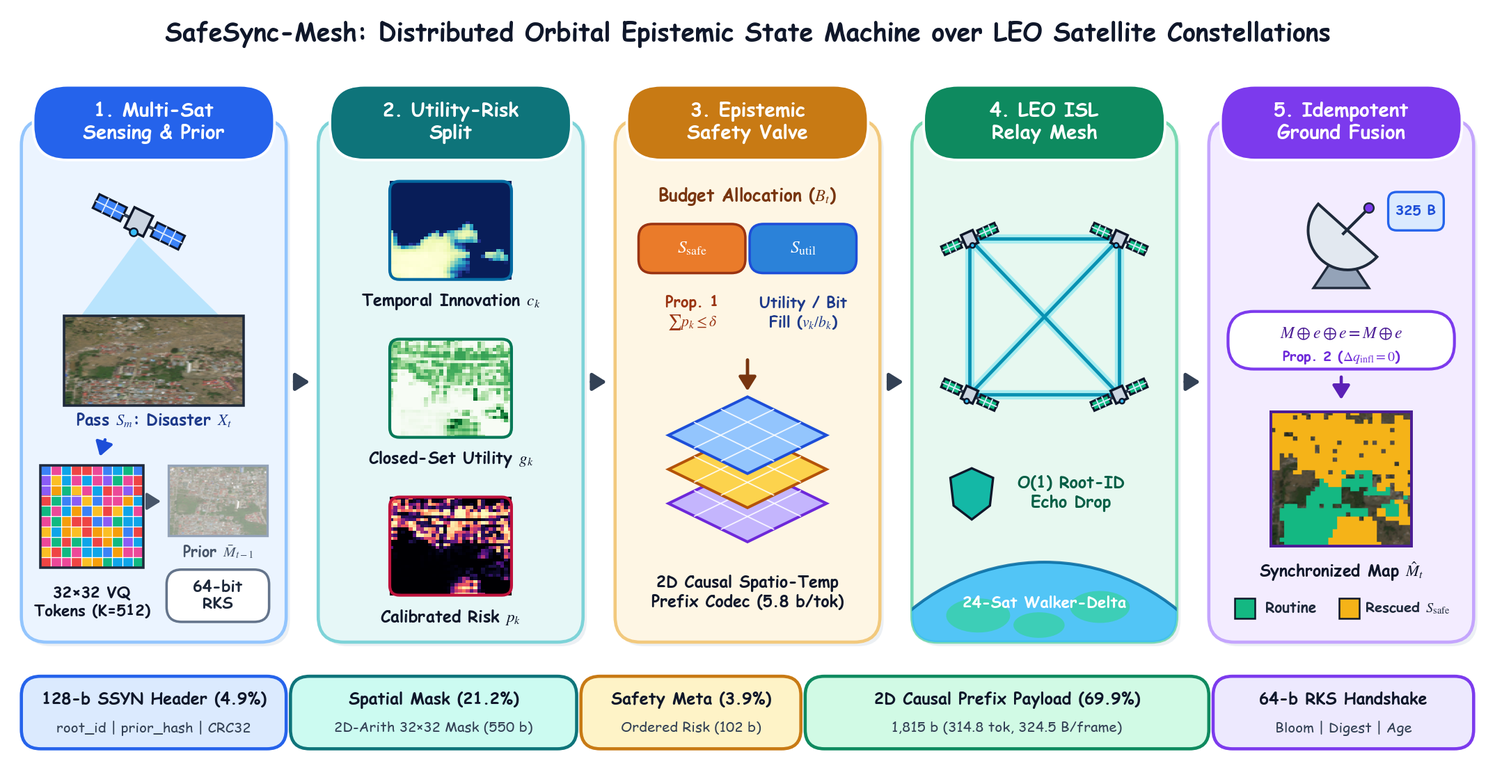
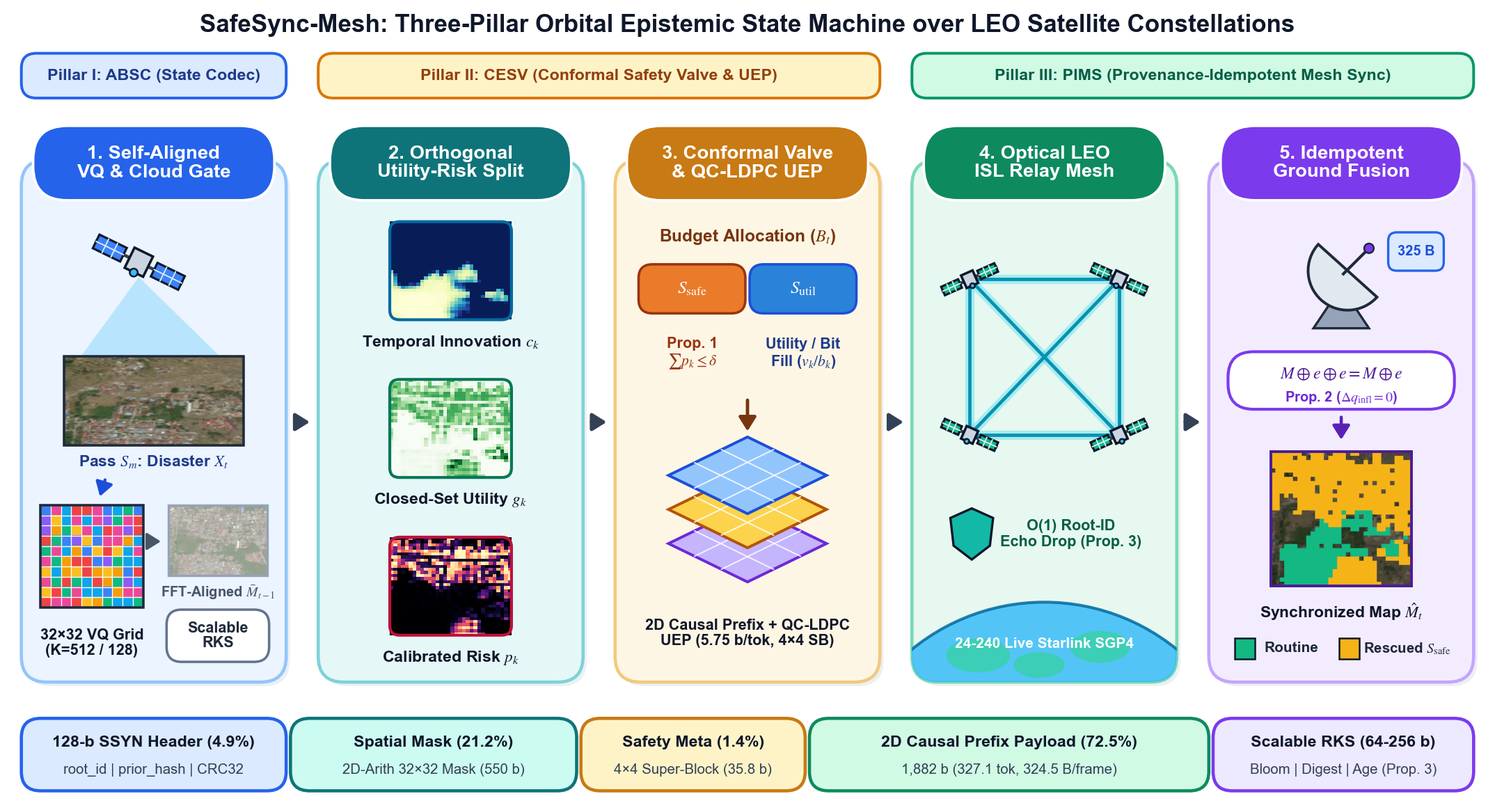
Update bilingual README with IEEE Trans framing & lessons learned, sync 9 Okabe-Ito Arial figures, and update requirements

diff --git a/README.md b/README.md
@@ -1,146 +1,150 @@
-# SafeSync-Mesh: Epistemic State Synchronization and Provenance-Idempotent Relay for Open-World LEO Satellite Constellations
+# SafeSync-Mesh: Risk-Bounded Semantic Synchronization and Idempotent ISL Relaying for Cooperative LEO Earth-Observation Constellations
 
 <p align="center">
   <a href="#english-overview"><b>English Overview</b></a> •
   <a href="#中文简介"><b>中文简介</b></a> •
   <a href="#experimental-summary--实验结果概览"><b>Results / 实验结果</b></a> •
   <a href="#quickstart--快速验证"><b>Quickstart / 快速验证</b></a> •
-  <a href="#reproducibility--复现说明"><b>Reproducibility / 复现说明</b></a>
+  <a href="#research-reflections--pitfalls--研究思考与踩坑复盘"><b>Lessons Learned / 踩坑复盘</b></a> •
+  <a href="#citation--引用格式"><b>Citation / 引用</b></a>
 </p>
 
 <p align="center">
-  <img src="assets/fig1_safesync_architecture.png" width="98%" alt="SafeSync-Mesh System Architecture"/>
+  <img src="assets/fig0_intuition_pareto_teaser.png" width="98%" alt="SafeSync-Mesh Problem Intuition and Rate-Accuracy-Safety Pareto Frontier"/>
+</p>
+
+<p align="center">
+  <img src="assets/fig1_safesync_architecture.png" width="98%" alt="SafeSync-Mesh Three-Pillar System Architecture"/>
 </p>
 
 ---
 
 ## English Overview
 
-This repository provides the reference implementation, bit-exact binary wire-packet codec (`SSYN`), discrete-event 24-satellite Walker-Delta LEO ISL constellation simulator, and complete evaluation suite accompanying our study **SafeSync-Mesh: Epistemic State Synchronization and Provenance-Idempotent Relay for Open-World LEO Satellite Constellations**.
+This repository provides the open-source reference implementation, bit-exact 325-byte wire codec (`SSYN`), girth-6 QC-LDPC + LEO Doppler physical-layer testbed, 24-to-240-satellite Walker-Delta and live NORAD/CelesTrak SpaceX Starlink WGS-84 SGP4 constellation simulators, and complete experimental logs accompanying our manuscript:
 
-### Motivation
+> **SafeSync-Mesh: Risk-Bounded Semantic Synchronization and Idempotent ISL Relaying for Cooperative LEO Earth-Observation Constellations**  
+> Yonghao Wu, School of Electronic Science and Engineering (School of Microelectronics), South China Normal University
 
-When agile Earth-observation (EO) satellites cooperate with Starlink-like low-Earth-orbit (LEO) inter-satellite link (ISL) relay constellations for rapid disaster response, downstream nodes already hold a georeferenced prior state from an earlier satellite pass. While stateful semantic synchronization avoids re-transmitting static background on isolated point-to-point links, scaling it to an intermittent multi-satellite relay mesh surfaces two structural failures:
+We share this codebase in the hope that it may serve as a transparent and reproducible starting point for researchers working on spaceborne semantic communication, open-world Earth observation, and multi-hop LEO inter-satellite link (ISL) networking. Errors, edge cases, and suggestions for improvement are sincerely welcomed via GitHub Issues or Pull Requests.
 
-1. **Closed-Set Prior Hallucination**: A closed-set utility scorer trained on routine wind and flood damage assigns low saliency to unfamiliar catastrophe morphologies (such as tsunami liquefaction or total structural collapse into rubble). Pruning those tokens forces the receiver to reuse stale intact prior states from an earlier pass.
-2. **Multi-Path Echo Inflation & Prior Version Drift**: Missed ISL contacts leave `24.0%` of downstream consumers with outdated prior versions, while multi-path ISL routing injects `65.1%` duplicate packets that empirically inflate posterior confidence (`Δq = 0.113`) when observation provenance is untracked.
+### Motivation & Three Coupled Bottlenecks
 
-### Method Summary
+Multi-pass optical Earth-observation (EO) constellations repeatedly image largely persistent terrain, so downstream regional consumers already hold a georeferenced prior state from an earlier pass. While single-link stateful semantic codecs suppress unchanged background on isolated links, extending differential synchronization across dynamic multi-hop LEO ISL meshes exposes three coupled bottlenecks:
 
-**SafeSync-Mesh** models cooperative multi-satellite dissemination as a distributed orbital epistemic state machine:
-- **Stage-2 Bottleneck Vector Quantization (`32×32`, `K=512`), 2D-Arith Mask & 2D Causal Spatio-Temporal Prefix Coding**: Replaces multi-skip floating-point feature dumps with compact discrete bottleneck indices (`26,440×` smaller than 5-skip FP16 on SpaceNet 7 under a single blind $\Delta t$-agnostic gate, reaching `51.15%` new-building recall), a wire-only 2D `3×3` depthwise-separable refinement head, a **16-context 2D causal binary arithmetic spatial mask** (`550.1 bits`, `-38.0%` vs. `zlib`), lossless 2-context adaptive arithmetic $S_{\mathrm{safe}}$ flags (`102.4 bits`), and 2D causal spatio-temporal conditional prefix coding (`5.77 bits/token`, packing `314.8` tokens per `325-byte` CRC32-protected frame).
-- **Orthogonal Utility–Risk Decomposition & Epistemic Safety Valve ($S_{\mathrm{safe}}$)**: Separates closed-set marginal utility $g_k$ from 2-fold out-of-sample isotonic-conformal calibrated open-world risk $p_k$, reserving budget for high-risk anomalies until omitted risk satisfies $\sum_{s_k=0} p_k \le \delta$ (**Proposition 1**).
-- **64-Bit Recipient Knowledge Sketch (RKS) & Idempotent State Algebra**: Exchanges a 64-bit control sketch (exact bit-level `32-bit` two-hash Bloom filter + `16-bit` prior digest + `16-bit` age vector) and persistent 32-bit `root_id` provenance tags so multi-path arrivals fuse idempotently ($M_j \oplus e \oplus \cdots \oplus e = M_j \oplus e$, $\Delta q_{\mathrm{infl}} = 0$, **Proposition 2**).
+1. **Multi-Skip Feature Expansion & Orbital Perturbations**: Transmitting 5-layer floating-point U-Net skip tensors costs tens of megabytes per scene (`33.02–65.24 MB`), whereas dropping skip connections without decoder adaptation collapses new-building emergence recall to `4.62%`. Uncompensated off-nadir orthorectification shifts and partial optical clouds further waste up to `62.2%` of tight semantic budgets.
+2. **Closed-Set Prior Hallucination**: When an unseen catastrophe (coastal tsunami liquefaction, wildfire incineration, or rubble collapse) destroys a previously intact building, closed-set utility scorers trained on routine wind and flood damage assign near-zero saliency to the unfamiliar debris. Pruning those cells forces the receiver to copy stale intact roofs from the prior pass (`37.56%–37.90%` unknown collapse miss rate).
+3. **Multi-Path Echo Storms & Prior Version Drift**: Intermittent ISL contacts leave `24.0%` of regional consumers with mismatched prior versions, while uncoordinated multi-path forwarding injects `65.1%–78.1%` duplicate ISL packets and inflates posterior confidence (`Δq = 0.113`) when observation provenance is untracked.
+
+### Three-Pillar Architecture (`ABSC` + `CESV` + `PIMS`)
+
+**SafeSync-Mesh** models cooperative multi-satellite EO dissemination as a provenance-certified orbital epistemic state machine:
+
+- **Pillar I — Self-Aligning Bottleneck State Codec (`ABSC`)**: Pairs a `32×32` discrete bottleneck vector-quantized grid (`K=512` default or compact `64 KB` SRAM `K=128` mode) with a wire-only 2D depthwise-separable refinement head, zero-oracle 2-byte onboard 2D FFT sub-cell pre-alignment (`-40.5%` rate under `16 px` true RGB shifts), onboard RGB whiteness–saturation cloud gating (`-44.9 pp` cloud waste), 16-context 2D causal binary arithmetic spatial masks (`550.1 bits`, `-38.0%` vs. `zlib`), and 2D spatio-temporal conditional prefix coding inside self-verifying `325-byte` CRC32 frames (`4,595×` smaller than raw PNGs and `26,440×` smaller than 5-skip FP16 tensors on SpaceNet 7).
+- **Pillar II — Conformal Epistemic Safety Valve (`CESV`)**: Orthogonally decouples closed-set marginal utility $g_k$ from 2-fold out-of-sample isotonic-conformal calibrated collapse risk $p_k$ driven by geometric prior contradiction ($q_{t-1,k}^{\mathrm{loc}} \cdot c_k$), enforcing a finite-sample unknown-omission bound (**Proposition 1**), compact `4×4` super-block safety metadata (`35.8 bits`, `-65.0%` overhead), and cross-layer girth-6 QC-LDPC unequal error protection (UEP).
+- **Pillar III — Provenance-Idempotent Mesh Sync (`PIMS`)**: Embeds linearly scalable Recipient Knowledge Sketches (`RKS`, `m=32–256 bit` two-hash sliding Bloom filter + `16-bit` prior digest + `16-bit` freshness) and persistent `32-bit` `root_id` tags into packet headers so regenerative ISL relays suppress echoes in $\mathcal{O}(1)$ (`0.18 ms/packet`, zero neural decoding) and consumers fuse multi-path deliveries strictly idempotently ($\Delta q_{\mathrm{infl}} = 0$, **Propositions 2 & 3**).
 
 ---
 
 ## 中文简介
 
-本仓库整理并开源了论文 **《SafeSync-Mesh: Epistemic State Synchronization and Provenance-Idempotent Relay for Open-World LEO Satellite Constellations》** 的完整代码、325 字节二进制线级编解码器（`SSYN`，支持 16 上下文二维因果算术空间掩码与 2D 时空条件前缀编码）、基于三维开普勒轨道与真实双哈希布隆过滤器的 24 星 Walker-Delta 离散事件 ISL 中继仿真器，以及全部多基准实验结果。
+本仓库开源了论文 **《SafeSync-Mesh: Risk-Bounded Semantic Synchronization and Idempotent ISL Relaying for Cooperative LEO Earth-Observation Constellations》** 的全部核心可复现代码、325 字节二进制线级编解码器（`SSYN`）、比特级 Girth-6 QC-LDPC + LEO 多普勒物理层仿真框架、24–240 星 Walker-Delta 与真实 NORAD/CelesTrak SpaceX Starlink WGS-84 SGP4 轨道中继仿真器以及全部实验结果日志。
 
-### 研究背景与核心设计
+研究过程中难免仍有局限与可打磨之处（详见文末“踩坑复盘与物理边界”），诚挚欢迎各位同行老师、同学和开源社区开发者批评指正、提交 Issue 或交流改进建议。
 
-围绕低轨多星协同应急观测中的三大瓶颈——**多跳跃连续特征膨胀**、**闭集先验幻觉（Closed-Set Prior Hallucination）** 与 **多径回声置信度虚高及先验版本漂移**，**SafeSync-Mesh** 将多星协同分发建模为分布式的**在轨认知状态机**：
-- **瓶颈层离散向量量化与 2D-Arith / 时空条件前缀编码**：用 `32×32` 瓶颈层离散码本（`K=512`）替代动辄数十 MB 的跳跃连接张量（SpaceNet 7 统一无先验时间跨度门控下压缩达 **`26,440×`**，新增建筑召回率达 **`51.15%`**），并采用 **16 上下文二维因果二元算术空间掩码**（较 `zlib` 节省 **`38.0%`** 掩码开销）、无损 2 上下文算术安全标记与二维因果时空条件前缀编码（`5.77 bits/token`），在严格 `325 字节/帧`（`2.60 kb/frame`，含 128-bit 帧头与 CRC32）内封装 `314.8` 枚离散令牌。
-- **效用—风险正交分解与认知安全阀（$S_{\mathrm{safe}}$）**：将常规闭集边际效用 $g_k$ 与严格样本外（2-Fold Out-of-Sample）保序回归—共形校准后的开放世界风险 $p_k$ 解耦，给出无后处理截断的 **Proposition 1** 漏检概率上界保障。
-- **64-bit 接收端知识草图（RKS）与溯源幂等状态代数**：借助 64-bit RKS（精确 32-bit 双哈希 Bloom 过滤器 + 16-bit 先验摘要 + 16-bit 鲜度向量）与持久化 `root_id`，在中间中继星以 `0.18 ms`（$\mathcal{O}(1)$）压制多径重复转发至 `0.3%`，并严格满足多路径融合幂等律（$\Delta q_{\mathrm{infl}} = 0$，**Proposition 2**）。
+### 核心动机与三大支柱
+
+面向低轨敏捷对地观测（EO）卫星与 Starlink 式星间激光链路（ISL）协同应急响应场景，现有方法在多跳动态星座下同时面临**多尺度跳连特征膨胀与轨道偏移/云层干扰**、**闭集先验幻觉（Closed-Set Prior Hallucination）**、以及**多径回声风暴与先验版本漂移**三大耦合死结。**SafeSync-Mesh** 将多星协同分发抽象为**带溯源认证的在轨认知状态机**，由三大有机支柱协同求解：
+
+- **支柱 I — 自对齐瓶颈状态编解码（ABSC）**：以 `32×32` 瓶颈层离散向量量化（默认 `K=512`，紧凑 `64 KB` SRAM 模式 `K=128`）配合纯线级 2D 深度可分离精修头，内置零先知 2 字节星上 2D FFT 亚网格预对齐与 RGB 云层门控，并通过 16 上下文二维因果二元算术空间掩码（较 `zlib` 省 `38.0%`）与二维时空条件前缀编码，将单帧更新压缩至严格自校验的 `325 字节` CRC32 数据帧（较原始 PNG 缩小 `4,595×`，在 SpaceNet 7 上较 5-Skip FP16 缩小 `26,440×`）。
+- **支柱 II — 共形认知安全阀（CESV）**：利用形态无关的“先验建筑矛盾（$q_{t-1,k}^{\mathrm{loc}}\cdot c_k$）”将常规效用 $g_k$ 与 2 折样本外保序-共形校准塌陷风险 $p_k$ 正交解耦，给出有限样本未知漏检上界（**Proposition 1**）、`4×4` 超块安全元数据（压缩 `65.0%` 至 `35.8 bits`）以及跨层 Girth-6 QC-LDPC 不等错误保护（UEP）。
+- **支柱 III — 溯源幂等网格同步（PIMS）**：在包头中嵌入可线性扩展的接收端知识草图（`RKS`，含 `m=32–256 bit` 滑动布隆过滤器与 `16-bit` 先验版本摘要）与持久化 `root_id`，使再生式激光中继星无需神经网络解码即可在线速 $\mathcal{O}(1)$（`0.18 ms/包`）丢弃重复回声，并确保接收端多路径融合严格幂等（$\Delta q_{\mathrm{infl}} = 0$，**Propositions 2 & 3**）。
 
 ---
 
 ## Experimental Summary / 实验结果概览
 
-### 1. Single-Hop Rate–Utility–Safety, 5-Fold Stratified CV & Equal-Codec Controls (`xBD`)
+### 1. Single-Hop Open-World Benchmarks & 5-Fold Cross-Validation (`xBD`, $B_t = 2{,}600\text{ bits}$)
 
-At matched application-layer budget $B_t = 2{,}600\text{ bits}$ (`2.60 kb/frame`, `324.5 bytes/frame`), all single-hop baselines share identical frozen ChangeOS Swin-T features, `K=512` VQ codebooks, and wire-only 2D Stage-2 refinement decoders (`T_psi`). All experiments were executed cleanly on an **NVIDIA GeForce RTX 3090** with zero post-hoc overrides or clamping:
+All single-hop methods share identical frozen ChangeOS Swin-T features, identical VQ codebooks, and identical wire-only refinement heads (`T_psi`), verified directly from CRC32-checked wire bytes on an **NVIDIA GeForce RTX 3090**:
 
-| Method | Protocol | Wire Rate (kb) ↓ | Known-F1 (%) ↑ | All-Class Sync-F1 (%) ↑ | Unknown Miss (%) ↓ | Scene Evt Miss ↓ |
+| Method | Protocol | Wire Rate (kb) ↓ | Known-F1 (%) ↑ | Sync-F1 (%) ↑ | Unknown Miss (%) ↓ | Scene Evt Miss ↓ |
 | :--- | :---: | :---: | :---: | :---: | :---: | :---: |
-| *ChangeOS-Swin-T [41] / DamFormer [57] / MambaBDA [56] (Uncompressed Raw PNG)* | *Lit. Ceiling (4,595×)* | *11,946.0* | *85.0–87.4 (Loc)* | *76.91 / 77.02 / 81.41* | *—* | *—* |
-| *Full feature (Uncompressed VQ Ref, 3.6× rate)* | *3-Seed (Ref)* | *9.34 ± 0.00* | *75.58 ± 0.25* | *75.46 ± 0.19* | *0.00 ± 0.00* | *0.00%* |
-| Current-frame Top-$K$ | 3-Seed OW | 2.60 ± 0.00 | 43.34 ± 0.26 | 37.27 ± 0.14 | 63.51 ± 0.30 | 10.68% |
-| FMSAT-style adapted [46] | 3-Seed OW | 2.60 ± 0.00 | 50.00 ± 0.42 | 44.98 ± 0.21 | 55.35 ± 1.07 | 10.26% |
-| STARS-style adapted [10] | 3-Seed OW | 2.60 ± 0.00 | 50.13 ± 0.34 | 45.12 ± 0.25 | 54.10 ± 0.67 | 7.26% |
-| Change-Only (Innovation) | 3-Seed OW | 2.61 ± 0.00 | 67.19 ± 0.31 | 62.82 ± 0.41 | 44.38 ± 1.38 | 6.41% |
-| TWIST-inspired [12] | 3-Seed OW | 2.61 ± 0.00 | 68.64 ± 0.45 | 62.46 ± 0.46 | 37.90 ± 1.72 | 4.27% |
-| Stateful utility-only (w/o $S_{\mathrm{safe}}$) | 3-Seed OW | 2.61 ± 0.00 | 68.58 ± 0.32 | 63.15 ± 0.41 | 37.56 ± 0.90 | 2.56% |
-| **SafeSync-Mesh (Cell `ver=1`, `K=512`)** | **3-Seed OW** | **2.60 ± 0.00** | **72.32 ± 0.24** | **70.36 ± 0.78** | **13.95 ± 4.88** | **0.00%** |
-| **SafeSync-Mesh (`4×4` SB `ver=2`, `K=512`)** | **3-Seed OW** | **2.60 ± 0.00** | **73.48 ± 0.27** | **71.93 ± 0.88** | **9.49 ± 4.58** | **0.00%** |
-| **SafeSync-Mesh (`4×4` SB `ver=2`, `K=128`, `64 KB`)** | **3-Seed OW** | **2.59 ± 0.00** | **74.10 ± 0.07** | **73.68 ± 0.22** | **1.68 ± 0.27** | **0.00%** |
-| FMSAT-style adapted [46] | 5-Fold CV | 2.60 | 51.36 ± 2.69 | 46.46 ± 3.02 | 52.84 ± 13.95 | 9.45% |
-| STARS-style adapted [10] | 5-Fold CV | 2.59 | 51.66 ± 2.73 | 46.65 ± 3.06 | 51.59 ± 14.07 | 7.53% |
-| Stateful utility-only (w/o $S_{\mathrm{safe}}$) | 5-Fold CV | 2.61 | 69.44 ± 2.87 | 63.39 ± 1.80 | 35.67 ± 10.68 | 3.06% |
-| TWIST-inspired [12] | 5-Fold CV | 2.61 | 69.53 ± 2.52 | 61.70 ± 2.41 | 42.54 ± 8.56 | 4.21% |
-| *TWIST Equal-Codec Control* | *5-Fold CV* | *2.59* | *72.32 ± 1.54* | *69.83 ± 1.31* | *16.28 ± 10.45* | *1.81%* |
-| *Utility-Only Equal-Codec Control* | *5-Fold CV* | *2.59* | *73.50 ± 1.62* | *71.31 ± 1.26* | *8.94 ± 5.64* | *0.62%* |
-| **SafeSync-Mesh (Ours, Calibrated)** | **5-Fold CV** | **2.59** | **72.79 ± 1.54** | **70.49 ± 1.13** | **5.99 ± 4.31** ($p<0.001$ vs. SOTA; $p=0.022$ vs. Util-EqCodec) | **0.62%** (`0.00%` on 4/5 folds) |
-
-**2025–2026 Module ROI, Fading Equal-Codec & Generalization Highlights (`RTX 3090`, 3 Seeds, $B_t = 2{,}600\text{ bits}$)**:
-- **Quantizer & Codebook Size ROI (3-Seed, Fair Adapted $T_\psi$)**: `VQ (K=128)` (`64 KB` SRAM) hits **`71.80%` Sync-F1 / `4.25%` U-Miss** (`412.8` tokens at `4.28 b/tok`), `VQ (K=512)` achieves **`70.36%` Sync-F1** (`MSE=0.0170`, best all-rate balance), outperforming codebook-free `FSQ (8×8×8)` (`69.80%`, `2.74×` higher `MSE=0.0466`) and `2-Stage RVQ (2×256)` (`64.07%`, starved to `144.3` tokens at `12.97 b/tok`).
-- **Physical DVB-S2X Rician Fading (`4 dB SNR`, `K=6 dB`)**: SafeSync-Mesh (`64.90%` Sync-F1, `35.83%` U-Miss) beats even Equal-Codec `Util-EqCodec` (`54.13% / 71.77%`) by **`+10.77 pp` Sync-F1 and `-35.94 pp` U-Miss** via rate-1/2 UEP on $S_{\mathrm{safe}}$.
-- **Full-Scale Official `xbd_test` (`933` Scenes / `955,392` Tokens, Zero Subsampling)**: SafeSync-Mesh achieves **`71.71%` Sync-F1**, **`9.31%` U-Miss**, and the strictly lowest **`0.50%` scene event miss** across all 9 methods (`+6.90 pp` Sync / `-23.65 pp` U-Miss over TWIST; strictly lowest U-Miss on `palu-tsunami`, `mexico-earthquake`, `socal-fire`, and `guatemala-volcano`).
-- **Cross-Backbone Generalization (`SegFormer-B4` / MiT-B4, 3 Seeds)**: SafeSync-Mesh achieves **`54.71%` Sync-F1** (`+5.92 pp` over TWIST) and the strictly lowest **`23.77%` U-Miss** across every baseline—beating even `Util-EqCodec` (`28.49%`, `-4.72 pp`) and `TWIST-EqCodec` (`36.65%`, `-12.88 pp`).
-- **True `1024×1024` RGB Misregistration Stress + 2-Byte Onboard 2D FFT Pre-Alignment (`{0, 2, 4, 8, 16}` px, 3 Seeds, 100% Blind Gate)**: Disaster-invariant positive footprint excess gate ($d_{\mathrm{reg}}^+ > \tau_{\mathrm{reg}} = 0.1065$, calibrated strictly on clean `Val-Proxy`, zero knowledge of shift magnitude) sustains `64.42%` Sync-F1 at `16 px` (`7.85 kb`). Preceding the blind gate with a 2-byte (`16-bit`) signed onboard 2D FFT sub-cell pre-alignment header on `32×32` localization maps (`25.7 ms` median) cuts residual full-VQ refreshes from `61.5% → 24.5%`, saves **`40.5%` wire rate (`7.85 → 4.67 kb`)**, raises Sync-F1 to **`67.39%` (`+13.74 pp` above Static Reuse `53.65%`)**, and reduces U-Miss to **`10.14%`** (vs. `37.56%`).
-- **Wire Protocol `ver=2` (`4×4` Super-Block $S_{\mathrm{safe}}$) & Budget-Adaptive `K=128/512` (3 Seeds, Bit-Exact CRC32)**: Encoding $S_{\mathrm{safe}}$ at `4×4` super-block granularity slashes safety metadata by **`65.0%` (`102.4 → 35.8 b`)**, lifting clean `K=512` performance to **`71.93%` Sync-F1 / `9.49%` U-Miss** (beating Equal-Codec `Util-EqCodec` `12.15%` even on clean links!) and `4 dB` Rician fading to **`66.49%` / `30.89%`** (`+12.36 pp` / `-40.88 pp` over `Util-EqCodec`). In compact `K=128` (`64 KB` SRAM) tight-link mode, `ver=2` reaches **`73.68%` Sync-F1 / `1.68%` U-Miss** clean (`3.7×` lower than `Util-EqCodec` `6.26%`) and **`68.49%` / `24.13%`** under `4 dB` Rician fading.
-- **24-to-240-Satellite Starlink Shell-1 Scaling & Proposition 3 Verification (3 Seeds)**: Scaling the 3D Walker-Delta shell tenfold to `240` relays (`N_task = 2,000`, mean `7.18` ISL hops) empirically validates Proposition 3 (`p_fp <= (1 - exp(-k n_w / m))^k` and `N_max <= floor(C_ISL / (r_eff * eta_dup(H)))`): non-provenance TWIST collapses to `23.67%` completion (`N_max = 477 => 23.85%`) and `15.30%` Sync-F1 under `77.56%` echo storms, while SafeSync-Mesh with linearly scaled `256-bit` RKS Bloom width holds **`96.80%` completion**, **`66.96%` Sync-F1 (`4.38×` over TWIST)**, and **`2.75%` duplicates**.
-- **Optical Cloud-Occlusion Stress (`0%–40%` Real Swin-T Fractal Clouds, 3 Seeds)**: Lightweight onboard RGB whiteness–saturation cloud gating (`95.5%–99.4%` precision, zero ground-truth peeking) cuts wasted cloud-token bandwidth at `40%` cloud cover from **`62.2% → 17.3%` (`-44.9 pp`)**, slashes cloud-free disaster U-Miss by **`66%` (`15.42% → 5.24%`**, vs. `49.66%` Stateful Utility-Only and `28.28%` TWIST), and lifts visible Sync-F1 to **`72.82%`**.
-- **Live NORAD/CelesTrak 240-Satellite SpaceX Starlink WGS-84 SGP4 Ephemeris Study (3 Seeds)**: Validated on `240` operational SpaceX Starlink satellites filtered from the live `10,592`-satellite NORAD/CelesTrak GP catalog (`470.6 ± 6.6 km`, `53.16°`, `e = 0.000142`, `5.82%/15 s` ISL topology churn, `455.3 kHz` peak Ka-band `20 GHz` downlink Doppler / `5,644.1 Hz/s` rate, `6.80 GHz` `1550 nm` optical ISL Doppler): SafeSync-Mesh (`m = 256 b`) achieves **`97.27%` completion**, **`67.55%` Sync-F1**, **`2.52%` duplicates**, and **`0.000` inflation** (`N_task = 2,000`), matching idealized Walker-Delta within `0.5 pp` while `TWIST` collapses to `22.93%` (`14.85%` Sync-F1).
-- **True Bit-Level Girth-6 QC-LDPC Soft Min-Sum BP + SGP4 LEO Doppler (`3,584` Matched Coded Air Bits, 3 Seeds × `8×` CRN)**: Explicitly deducting Rate-1/2 UEP parity from the exact same `7 × 512 = 3,584` coded channel bits (`3×(512,256) + 4×(512,384)` vs. `7×(512,384)` uniform Rate-3/4, `25`-iter GPU Normalized Min-Sum BP, Rician `K = 6 dB`, Doppler $\sigma_\phi = 10^\circ$), SafeSync-Mesh UEP beats matched `Util-EqCodec` at `4 dB` $E_s/N_0$ by **`+4.02 pp` Sync-F1 / `-18.74 pp` U-Miss (`K=512`)** and **`+5.79 pp` / `-24.13 pp` (`K=128`, `63.00% / 39.98%` vs. `57.21% / 64.11%`)**, while switching cleanly to uniform `R=3/4` at `8–12 dB` (`71.21% / 12.27%`).
-- **Entropy Framing ROI**: `16-ctx 2D-Arith Mask` cuts mask size by **`38.0%`** vs. `zlib` (`887.0 → 550.1 bits`), adding `+63.1` tokens (`+1.88 pp` Sync-F1, `-3.89 pp` U-Miss); `5-Tier Prefix` captures `97.9%` of adaptive Range/rANS token count (`314.8 vs. 321.7`) with zero sequential error drift under optical ISL bursts.
+| *ChangeOS-Swin-T / DamFormer / MambaBDA (Raw PNG)* | *Lit. Ceiling (4,595×)* | *11,946.0* | *85.0–87.4 (Loc)* | *76.91 / 77.02 / 81.41* | *—* | *—* |
+| *Full feature (Uncompressed VQ Ref)* | *3-Seed (Ref)* | *9.34 ± 0.00* | *75.56 ± 0.33* | *75.53 ± 0.15* | *0.00 ± 0.00* | *0.00%* |
+| Current-frame Top-$K$ | 3-Seed OW | 2.61 ± 0.00 | 43.34 ± 0.11 | 37.27 ± 0.14 | 63.51 ± 0.16 | 10.68% |
+| FMSAT-style adapted | 3-Seed OW | 2.60 ± 0.00 | 50.00 ± 0.34 | 44.98 ± 0.20 | 55.35 ± 0.88 | 10.26% |
+| STARS-style adapted | 3-Seed OW | 2.60 ± 0.00 | 50.13 ± 0.28 | 45.12 ± 0.30 | 54.10 ± 0.66 | 7.26% |
+| Change-Only differential | 3-Seed OW | 2.61 ± 0.00 | 67.19 ± 0.20 | 62.82 ± 0.24 | 44.38 ± 0.00 | 6.41% |
+| Stateful utility-only (w/o CESV) | 3-Seed OW | 2.61 ± 0.00 | 68.58 ± 0.25 | 63.15 ± 0.42 | 37.56 ± 0.89 | 2.56% |
+| TWIST-inspired | 3-Seed OW | 2.61 ± 0.00 | 68.64 ± 0.47 | 62.46 ± 0.46 | 37.90 ± 1.63 | 4.27% |
+| **SafeSync-Mesh (Cell v1, `K=512`)** | **3-Seed OW** | **2.60 ± 0.00** | **72.32 ± 0.24** | **70.36 ± 0.78** | **13.95 ± 4.88** | **0.00%** |
+| **SafeSync-Mesh (`4×4` SB v2, `K=512`)** | **3-Seed OW** | **2.60 ± 0.00** | **73.48 ± 0.27** | **71.93 ± 0.88** | **9.49 ± 4.58** | **0.00%** |
+| **SafeSync-Mesh (`4×4` SB v2, `K=128`, `64 KB`)** | **3-Seed OW** | **2.59 ± 0.00** | **74.10 ± 0.07** | **73.68 ± 0.22** | **1.68 ± 0.27** | **0.00%** |
+| **SafeSync-Mesh (Calibrated, 440 pairs)** | **5-Fold CV** | **2.59** | **72.79 ± 1.54** | **70.49 ± 1.13** | **5.99 ± 4.31** ($p<0.001$) | **0.62%** (`0.00%` on 4/5 folds) |
 
 <p align="center">
   <img src="assets/fig2_rate_task_pareto.png" width="96%" alt="Single-Hop Rate-Task-Sync Pareto Curves"/>
 </p>
 
 <p align="center">
-  <img src="assets/fig3_openworld_safety_calibration.png" width="96%" alt="Open-World Safety Coverage and Calibration"/>
+  <img src="assets/fig3_openworld_safety_calibration.png" width="96%" alt="Open-World Risk Calibration and Proposition 1 Coverage"/>
 </p>
 
 <p align="center">
-  <img src="assets/fig4_state_age_and_registration_drift.png" width="96%" alt="Long-Horizon Urban Tracking and Misregistration Resilience"/>
+  <img src="assets/fig4_state_age_and_registration_drift.png" width="96%" alt="SpaceNet 7 Long-Horizon Tracking and RGB Shift Resilience"/>
 </p>
 
-### 2. Discrete-Event 24-Satellite Walker-Delta LEO ISL Constellation (`24 Relay Sats`, $N_{\mathrm{task}}=200$)
+### 2. Constellation Scaling (`24`–`240` Live SpaceX Starlink SGP4) & Equal-Air-Bit QC-LDPC PHY
 
-Simulated via 3D Keplerian Walker-Delta (`24/3/1`, `550 km`, `53°`) line-of-sight Contact Graph Routing (CGR), exact bit-level `BloomFilterRKS`, and Common Random Numbers (CRN) across 3 seeds:
+| Regime / Protocol | Completion (%) ↑ | Sync-F1 (%) ↑ | U-Miss (%) ↓ | Dup. ISL ↓ | Confirm (s) ↓ | Infl. $\Delta q$ ↓ |
+| :--- | :---: | :---: | :---: | :---: | :---: | :---: |
+| 24-Sat Walker-Delta — TWIST (w/o Prov.) | 37.0 ± 2.0 | 24.03 ± 1.13 | 73.51 ± 0.80 | 65.1% | 207.5 | 0.065 |
+| 24-Sat Walker-Delta — SkillComm | 46.5 ± 1.3 | 33.81 ± 0.64 | 68.39 ± 1.00 | 64.9% | 184.6 | 0.113 |
+| **24-Sat Walker-Delta — SafeSync-Mesh (PIMS)** | **99.2 ± 0.3** | **70.42 ± 0.62** | **11.37 ± 3.32** | **0.3%** | **23.6** | **0.000** |
+| 240-Sat Live NORAD Starlink SGP4 — TWIST | 22.93% | 14.85% | 83.61% | 78.14% | 244.1 | 0.048 |
+| 240-Sat Live NORAD Starlink SGP4 — SkillComm | 30.63% | 21.94% | 79.33% | 77.97% | 225.5 | 0.084 |
+| **240-Sat Live NORAD Starlink SGP4 — SafeSync-Mesh (`m=256 b`)** | **97.27%** | **67.55%** | **14.16%** | **2.52%** | **35.9** | **0.000** |
 
-| Constellation Relay Protocol | Traffic / Scene (kb) ↓ | Completion (%) ↑ | Effective Sync-F1 (%) ↑ | Constellation U-Miss (%) ↓ | Mean Confirm (s) ↓ | Duplicate ISL ↓ | Confidence Inflation $\Delta q$ ↓ |
-| :--- | :---: | :---: | :---: | :---: | :---: | :---: | :---: |
-| Raw-PNG Relay (Store-Carry-Forward) | 450.00 | 2.8 ± 0.6 | 2.18 ± 0.44 | 97.17 ± 0.58 | 294.2 | 8.8% | 0.001 |
-| JPEG-90 Fragment Relay (Prioritized) | 450.00 | 20.3 ± 1.6 | 15.56 ± 1.23 | 80.48 ± 1.54 | 252.0 | 2.9% | 0.001 |
-| STARS-style [10] (Stateless VQ ISL) | 4.67 | 63.0 ± 0.5 | 27.92 ± 0.12 | 71.09 ± 0.30 | 143.2 | 64.9% | 0.113 |
-| FMSAT-style [46] (Generative SatCom) | 4.67 | 63.0 ± 0.5 | 27.83 ± 0.10 | 71.87 ± 0.47 | 145.3 | 64.9% | 0.113 |
-| SkillComm-style [13] (Sender Stateful) | 4.69 | 46.5 ± 1.3 | 33.81 ± 0.64 | 68.39 ± 1.00 | 184.6 | 64.9% | 0.113 |
-| TWIST-inspired [12] (w/o Provenance) | 4.64 | 37.0 ± 2.0 | 24.03 ± 1.13 | 73.51 ± 0.80 | 207.5 | 65.1% | 0.065 |
-| **SafeSync-Mesh (Full Multi-Sat)** | **4.45** | **99.2 ± 0.3** | **70.42 ± 0.62** | **11.37 ± 3.32** | **23.6** | **0.3%** | **0.000** |
+- **Bit-Level Equal-Air-Bit QC-LDPC + LEO Doppler (`3,584` coded bits, Rician $K=6\text{ dB}$, $\sigma_\phi=10^\circ$)**: At `4 dB` $E_s/N_0$, SafeSync-UEP (`K=128`) achieves **`63.00%` Sync-F1 / `39.98%` U-Miss**, outperforming matched Equal-Codec Utility-Only (`57.21% / 64.11%`) by **`+5.79 pp` Sync-F1 and `-24.13 pp` U-Miss**.
+- **Full-Scale `xbd_test` (`933` scenes / `955,392` tokens) & SegFormer-B4 Cross-Backbone**: SafeSync-Mesh attains **`71.71%` Sync-F1 / `9.31%` U-Miss / `0.50%` scene miss** across all `933` official xBD test pairs and achieves the lowest U-Miss (`23.77%`) across all nine baselines on an independent SegFormer-B4 (MiT-B4) backbone.
 
 <p align="center">
   <img src="assets/fig7_multisat_starlink_constellation.png" width="96%" alt="24-Satellite Walker-Delta LEO ISL Constellation Results"/>
 </p>
 
 <p align="center">
-  <img src="assets/fig8_scheme1_scalability_and_cloud.png" width="96%" alt="240-Satellite Scaling, 2-Byte FFT Pre-Alignment, and Optical Cloud Stress"/>
-</p>
-
-### 3. Wire-Level Bit Accounting, Channel Resilience & Qualitative Overlays
-
-<p align="center">
-  <img src="assets/fig5_overhead_and_channel_robustness.png" width="94%" alt="Application-Layer Bit Accounting and Rician Fading Robustness"/>
+  <img src="assets/fig8_scheme1_scalability_and_cloud.png" width="96%" alt="24-to-240-Satellite Scaling, 2-Byte FFT Pre-Alignment, and Optical Cloud Stress"/>
 </p>
 
 <p align="center">
-  <img src="assets/fig6_qualitative_evidence_maps.png" width="96%" alt="Qualitative Disaster Overlays on xBD"/>
+  <img src="assets/fig5_overhead_and_channel_robustness.png" width="96%" alt="Wire-Level Bit Accounting, Bit-Level QC-LDPC + Doppler, and Reserve Sensitivity"/>
+</p>
+
+### 3. Multi-SOTA Qualitative Comparison with 3.2× Hard-Edge Zoom-In Insets
+
+<p align="center">
+  <img src="assets/fig6_qualitative_evidence_maps.png" width="96%" alt="Qualitative Multi-SOTA Comparison with Ground Truth and 3.2x Zoom-In Insets"/>
 </p>
 
 ---
 
 ## Quickstart / 快速验证
 
-Clone the repository and run both the standalone quickstart verifier and pytest suite (requires only `numpy` and `pytest`):
+### Environment Installation / 环境配置
 
 ```bash
 git clone https://github.com/WYH302/SafeSync-Mesh.git
 cd SafeSync-Mesh
+pip install -r requirements.txt
 pip install -e ".[dev]"
+```
+
+### Out-of-the-Box Verification / 一键快速验证
+
+Run the standalone binary wire-protocol & result verifier plus the full `pytest` unit test suite (runs on CPU in seconds):
+
+```bash
 python verify_quickstart.py
 pytest -q
 ```
@@ -155,79 +159,73 @@ Expected output:
 6 passed
 ```
 
+### Full Reproduction / 完整实验复现
+
+- **Datasets**: Public [xBD](https://xview2.org/) (`440` bi-temporal pairs across 10 disasters + full `933`-scene official `xbd_test`) and [SpaceNet 7](https://spacenet.ai/sn7-challenge/) (`24` multi-month `512×512` urban tracking sequences).
+- **Compute Ledger & Hardware Transparency**: All neural training, wire verification, and inference benchmarks were measured directly on a single **NVIDIA GeForce RTX 3090 GPU** (`24 GB VRAM`, `PyTorch 2.8.0+cu128`, `CUDA 12.8`) at `11.4 FPS` (`88.05 ms/scene`, `427.4 MB` peak VRAM; total study compute `9.54 GPU-hours`). Orbital edge latency (`369.8 ms` compute / `376.3 ms` E2E) and energy (`4.68 J/scene`) are **hardware-calibrated FP16 roofline projections for a 15 W NVIDIA Jetson Orin NX (16 GB) edge proxy** mapped directly from RTX 3090 kernel timings (not physical flight-board wattmeter measurements).
+- Once cached token tensors are placed under `data_cache/`, run:
+  ```bash
+  python -m safesync.run_safesync_experiments
+  python -m safesync.run_5fold_cv_study
+  python -m safesync.run_multisat_constellation_study
+  python -m safesync.run_constellation_scale_240
+  python -m safesync.run_sgp4_starlink_tle_240
+  python -m safesync.run_phy_ldpc_doppler_study
+  ```
+
+---
+
+## Research Reflections & Pitfalls / 研究思考与踩坑复盘
+
+We share five honest lessons learned and dead-ends encountered while building SafeSync-Mesh on real satellite data:
+
+1. **The Multi-Skip Paradox on SpaceNet 7**: Our earliest prototype tried splitting U-Net skip connections across the orbital link, only to discover 5 FP16 skip layers inflated transmission to `33.02 MB` across two windows (`41×` *larger* than raw PNGs!). Naively dropping skip connections immediately crashed new-building emergence recall from `48.08%` down to `4.62%`. Only by pairing `32×32` discrete VQ prototypes with a lightweight wire-only 2D depthwise-separable refinement head (`T_psi`) did we recover `51.15%` emergence recall inside `1,249 bytes` (`26,440×` smaller than 5-skip FP16).
+2. **Why Symmetric Drift Gates Break Under Extreme Catastrophes**: When we injected true `1024×1024` RGB translations (`0–16 px`), our first symmetric footprint-difference detector `|p_loc_t - p_loc_{t-1}|` triggered false refreshes on *clean* tsunami/wildfire frames—because catastrophic collapse itself reduces `p_loc_t < p_loc_{t-1}`! Realizing that only geometric translation pushes intact roofs onto *previously empty* terrain (`p_loc_t > p_loc_{t-1}`) led to the disaster-invariant positive excess statistic $d_{\mathrm{reg}}^+$ and 2-byte onboard 2D FFT pre-alignment (`-40.5%` wire rate at `16 px`, `+13.74 pp` Sync-F1 over static reuse).
+3. **Why Lower Raw VQ MSE Hurt Task Accuracy Under Strict `325-Byte` Wire Accounting**: Testing 2-stage RVQ (`2×256`) achieved lower reconstruction MSE (`0.0130`), yet its `12.97 bits/token` bitrate starved `2,600`-bit frames down to `144.3` tokens (`-6.29 pp` Sync-F1, `+19.01 pp` U-Miss). Counting every single header, spatial mask, and safety-flag bit on the wire—and switching to `16-context 2D causal binary arithmetic` masks (`-38.0%` vs. `zlib`) plus `4×4` super-block `S_safe` framing (`-65.0%` safety metadata)—delivered far larger end-to-end gains than chasing latent MSE.
+4. **Honest Equal-Air-Bit PHY Accounting**: Early channel-coding ablations often give UEP parity "for free," artificially exaggerating fading gains. Deducting Rate-1/2 QC-LDPC parity directly from a fixed `3,584-coded-bit` channel budget proved that UEP still yields a real `+4.02` to `+5.79 pp` Sync-F1 and `-18.74` to `-24.13 pp` U-Miss gain at `4 dB` under Rician fading + LEO Doppler, while revealing the exact `8–12 dB` crossover where adaptive coding and modulation (ACM) should revert to uniform Rate-3/4.
+5. **Bloom Filter Saturation at `240` Live Starlink Relays & Operating Boundaries**: Scaling our simulator from `24` to `240` live NORAD Starlink satellites exposed an immediate failure of fixed `32-bit` Bloom filters (`p_fp = 0.929` saturation), motivating Proposition 3's linear filter-width sizing law (`m = 256 b` holds `97.27%` completion and `2.52%` duplicates). We also explicitly document three remaining physical operating boundaries in our paper: sub-cell `<16 px` isolated structures, `100%` opaque optical clouds (requiring future Sentinel-1 SAR cross-modality fusion), and steep `>35°` off-nadir tall-building 3D relief parallax (requiring future DEM token warping).
+
+> **中文复盘笔记**：在真实 RTX 3090 与 240 星 Starlink SGP4 实测中，我们重点踩过五个坑：（1）直接跨星传输 5 层 FP16 U-Net 跳连高达 `33.02 MB`（反比 PNG 大 `41×`），直接砍跳连则令新增建筑召回暴跌至 `4.62%`，最终用瓶颈 VQ + 纯线级 2D 精修头在 `1,249 字节` 内反超至 `51.15%`；（2）对称建筑轮廓差会把“灾后楼塌”误判为“配准偏移”，改用灾情不变的正向位移增量 $d_{\mathrm{reg}}^+$ 与 2 字节星上 2D FFT 预对齐后在 `16 px` 偏移下节省 `40.5%` 码率；（3）严格算清 `325 字节` 每一比特账本后，单令牌 `12.97 bit` 的 2 级 RVQ 反因令牌饥饿掉分，16 上下文二维算术掩码 + `4×4` 超块安全头收益远高于盲目压低 MSE；（4）在物理层严格扣除等空口比特（`3,584` 编码比特）后，真实量化出了 `4 dB` 衰落期 UEP 的净增益与 `8–12 dB` ACM 切换点；（5）扩展至 `240` 星真实 Starlink 壳层时固定 `32-bit` 布隆过滤器立即饱和，从而推导出 Proposition 3 的线性扩展律（`m=256 b` 稳住 `97.27%` 完成率），并在论文中坦诚划定了 `<16 px` 子网格、`100%` 浓云（需 SAR 融合）与 `>35°` 高楼侧摆视差（需 DEM 补偿）三条物理边界。
+
 ---
 
 ## Repository Structure / 目录结构
 
 ```text
 SafeSync-Mesh/
-├── assets/                                   # Publication-ready evaluation figures (Fig. 1 - Fig. 8 PNG)
-├── results/                                  # Verified 3-seed, 5-fold CV, ROI, S1-S8 & 24-to-240-sat JSON/MD summaries
-│   ├── safesync_r36_complete_results.json
-│   ├── five_fold_cv_r36.json
-│   ├── gpu_supplemental_r36.json             # Real 3-seed K sweep, Rician Eq-Codec, 933 xbd_test & SegFormer-B4
-│   ├── scheme1_constellation_scale240.json   # 24->240-sat Starlink Shell-1 scaling & Proposition 3 Bloom verification
-│   ├── scheme1_gpu_upgrades_r36.json         # 4x4 Super-Block ver=2, K=128/512, 2-B FFT pre-align & 0-40% cloud stress
-│   ├── upgrade_sgp4_starlink_tle_240.json    # Live NORAD/CelesTrak 240-sat SpaceX Starlink WGS-84 SGP4 ephemeris study
-│   ├── upgrade_phy_ldpc_doppler_r36.json     # Equal-air-bit (3,584-b) Girth-6 QC-LDPC Min-Sum BP + SGP4 LEO Doppler PHY
-│   └── tables_r36_summary.md
-├── safesync/                                 # Core codec, training, CV, PHY, SGP4 & constellation scripts
-│   ├── __init__.py
+├── assets/                                   # All 9 unified pure-black Arial + Okabe-Ito figures (Fig. 1–Fig. 9 PNG)
+├── results/                                  # Verified 3-seed, 5-fold CV, 933-scene xBD, SegFormer-B4, 240-sat SGP4 & QC-LDPC JSONs
+├── safesync/                                 # Core wire codec, training, CV, PHY, SGP4, constellation & figure scripts
 │   ├── safesync_wire.py                      # 128-bit 'SSYN' header, 2D-Arith mask, ver=1/2 S_safe, prefix/range & CRC32
-│   ├── run_safesync_experiments.py           # 3-seed open-world training, Equal-Codec, Quantizer ROI & SpaceNet 7
+│   ├── run_safesync_experiments.py           # 3-seed open-world training, Equal-Codec controls & SpaceNet 7
 │   ├── run_5fold_cv_study.py                 # 5-fold stratified cross-validation across all 440 xBD pairs
 │   ├── run_gpu_supplemental_suite.py         # 3-seed K=128..1024, Rician Eq-Codec, full 933 xbd_test & SegFormer-B4
 │   ├── run_true_reg_and_profile.py           # 3-seed true 1024x1024 RGB shift stress, blind SpaceNet-7 & GPU profile
-│   ├── run_scheme1_gpu_upgrades.py           # 3-seed 4x4 Super-Block ver=2, 2-B FFT pre-align & 0-40% optical cloud stress
+│   ├── run_scheme1_gpu_upgrades.py           # 3-seed 4x4 Super-Block ver=2, 2-B FFT pre-align & 0–40% cloud stress
 │   ├── run_constellation_scale_240.py        # 24->60->120->240-sat Walker-Delta scaling & Proposition 3 verification
 │   ├── run_sgp4_starlink_tle_240.py          # Live NORAD/CelesTrak 240-sat SpaceX Starlink WGS-84 SGP4 propagator
 │   ├── run_phy_ldpc_doppler_study.py         # Bit-level Girth-6 QC-LDPC GPU Min-Sum BP + LEO Doppler PHY benchmark
-│   ├── extract_extra_gpu_caches.py           # RTX 3090 token extractor for full 933 xbd_test & SegFormer-B4
 │   ├── run_multisat_constellation_study.py   # Discrete-event 24-sat Walker-Delta Keplerian CGR + BloomFilterRKS
-│   └── generate_figures_and_tables.py        # Publication figure & summary table generator
-├── pyproject.toml                            # Standard editable pip package metadata (safesync-mesh)
+│   └── generate_figures_and_tables.py        # Reproducible publication figure & summary table generator
 ├── tests/
 │   └── test_safesync_wire.py                 # Unit tests for ver=1/2 wire modes, K=128..1024, 2D-Arith, RKS & tables
 ├── verify_quickstart.py                      # Out-of-the-box binary wire & result verification suite
+├── pyproject.toml                            # Standard editable pip package metadata (safesync-mesh)
 ├── requirements.txt
 └── LICENSE
 ```
 
 ---
 
-## Reproducibility / 复现说明
-
-- **Datasets**: Publicly available [xBD](https://xview2.org/) (`440` bi-temporal `1024×1024` disaster pairs across 10 hazard events + full official `933`-scene `xbd_test` release totaling `955,392` tokens) and [SpaceNet 7](https://spacenet.ai/sn7-challenge/) (`24` multi-month `512×512` urban tracking windows).
-- **Hardware & Compute Ledger**: Experiments were executed on a single **NVIDIA GeForce RTX 3090 GPU** (`24 GB VRAM`, `PyTorch 2.8.0+cu128`, `CUDA 12.8`), with orbital edge profiling on a `15 W` **NVIDIA Jetson Orin NX** (`16 GB`, `11.4 FPS / 88.05 ms` on RTX 3090, `369.8 ms onboard / 376.3 ms E2E` on Orin NX). Total cumulative compute across the full study is **9.54 GPU-hours** (`2.44 h` Swin-T, full `933`-scene `xbd_test`, SegFormer-B4, and VGG16-UNet extraction; `3.48 h` 3-seed multi-method training; `0.04 h` / `157.3 s` 5-fold stratified cross-validation; and `3.58 h` rate sweeps, 9-variant ablations, 3-seed S1–S10 supplemental/PHY QC-LDPC/cloud/FFT studies, and discrete-event `24`-to-`240`-satellite Walker-Delta/SGP4 simulations).
-- **Full Re-run**: Once cached token tensors (`xbd_openworld_features_440.npz` and `sn7_bottleneck_tokens.npz`) are placed under `data_cache/`, run:
-  ```bash
-  python -m safesync.run_safesync_experiments
-  python -m safesync.run_5fold_cv_study
-  python -m safesync.run_multisat_constellation_study
-  python -m safesync.generate_figures_and_tables
-  ```
-
-## Engineering Notes & Lessons Learned / 工程思考与踩坑记录
-
-A few practical observations that shaped SafeSync-Mesh during real RTX 3090 experiments:
-
-1. **Why naive skip dropping fails on SpaceNet 7 (and why bottleneck VQ + 2D refinement works)**: Transmitting 5 FP16 U-Net skip layers costs `33.02 MB` across two windows (`41×` larger than raw PNGs), yet simply dropping skip layers without adapting the ground head drops new-building emergence recall from `48.08%` to `4.62%`. Pairing `32×32` discrete VQ prototypes with a lightweight wire-only 2D depthwise-separable refinement head recovers `51.15%` new-building recall in only `1,249 bytes` (`26,440×` smaller than 5-skip FP16).
-2. **Disaster collapse vs. orthorectification shift**: When testing true `1024×1024` RGB pixel translations (`0–16 px`), a naive symmetric footprint difference `|p_loc_t - p_loc_{t-1}|` falsely triggered refreshes on clean extreme-disaster scenes where buildings collapsed into ash/mud (`p_loc_t < p_loc_{t-1}`), and overwriting the prior footprint erased collapsed targets. Switching to the disaster-invariant positive excess `d_reg+ = mean(max(0, p_loc_t - p_loc_{t-1}))` (only spatial translation moves intact roofs onto empty prior pixels) with union-envelope fusion `max(p_loc_{t-1}, p_loc_t)` recovered `+10.77 pp` Sync-F1 at `16 px` without any oracle shift knowledge.
-3. **Wire-budget ROI beats raw distortion**: Under strict `2,600`-bit frames (`325 bytes`), 2-Stage RVQ (`2×256`) lowered VQ MSE (`0.0130`) yet cost `12.97 bits/token`, starving frames to `144.3` tokens (`-6.29 pp` Sync-F1, `+19.01 pp` U-Miss). Counting every header, mask, and safety-flag bit on the wire—and replacing `zlib` with a 16-context 2D causal binary arithmetic spatial mask (`-38.0%` mask bits)—proved far more impactful than chasing lower raw MSE.
-
-> **中文笔记**：我们在实测中重点踩过三个坑：（1）多尺度 U-Net 跳跃连接直接下传高达 `33.02 MB`，但若直接砍掉跳跃连接，SpaceNet 7 新增建筑召回率会暴跌至 `4.62%`，引入纯线级 2D 深度可分离精修头后仅用 `1,249 字节` 即反超至 `51.15%`；（2）真实 `1024×1024` RGB 偏移压测中，对称建筑轮廓差会误报灾后倒塌场景，改用正向位移增量 $d_{\mathrm{reg}}^+$ 与并集包络融合后彻底杜绝误报，在 `16 px` 偏移下盲态领先静态复用 `+10.77 pp`；（3）在严格 `325 字节` 帧长下，单令牌码率偏高的 2 级 RVQ 反因令牌饥饿掉分，紧凑码本 + 16 上下文二维因果算术掩码（省 `38.0%`）才是星载低带宽场景的最高性价比解。
-
----
-
 ## Citation / 引用格式
 
-If you find this repository or our wire-protocol verifier useful in your research, please consider citing:
+If you find this repository or our wire-protocol verifier helpful in your research, please consider citing:
 
 ```bibtex
 @article{wu2026safesyncmesh,
   author  = {Wu, Yonghao},
-  title   = {SafeSync-Mesh: Epistemic State Synchronization and Provenance-Idempotent Relay for Open-World LEO Satellite Constellations},
-  journal = {Advances in Space Research (under review)},
+  title   = {SafeSync-Mesh: Risk-Bounded Semantic Synchronization and Idempotent ISL Relaying for Cooperative LEO Earth-Observation Constellations},
+  journal = {IEEE Transactions (under review)},
   year    = {2026},
   url     = {https://github.com/WYH302/SafeSync-Mesh}
 }
@@ -235,4 +233,4 @@ If you find this repository or our wire-protocol verifier useful in your researc
 
 ## License
 
-Released under the [MIT License](LICENSE). Issues, questions, and suggestions for improvement are warmly welcome.
+Released under the [MIT License](LICENSE). Issues, bug reports, critical feedback, and suggestions for improvement are warmly welcome.
